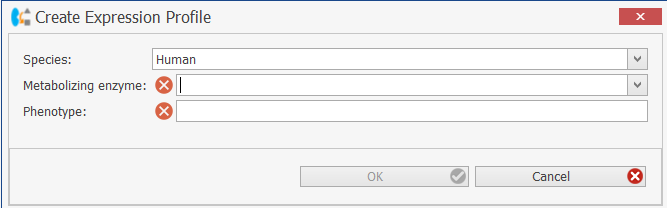
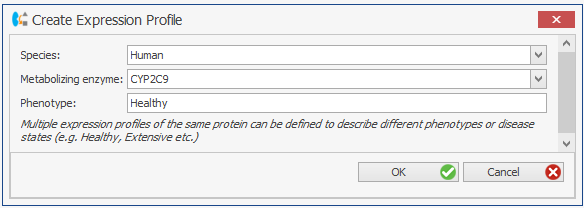
Work on expression profile

Changed region(s): [[0.0, 0.0, 1.0, 1.0], [0.4315, 0.8077, 0.4623, 0.8942]]

diff --git a/part-3/pk-sim-creating-individuals.md b/part-3/pk-sim-creating-individuals.md
@@ -216,7 +216,7 @@ Once the expression profile is selected, it will be linked to the individual and
 This is the only instance in PK-Sim where a a building block is referencing another building block. 
 
 {% hint style="warning" %}
-Please note that when selecting an expression profile with an individual, the expression profile is linked directly to the individual. Any modification performed in the expression profile will be immediately reflected into the individual. This is the reason all parameters are read-only in the individual.
+Please note that when adding an expression profile to an individual, the expression profile is linked directly to the individual. Any modification performed in the expression profile will be immediately reflected into the individual. This is the reason why all parameters are read-only in the individual.
 {% endhint %}
 
 For details on how to create an expression profile, please see [PK-Sim® - Expression Profile](pk-sim-expression-profile.md).

diff --git a/part-3/pk-sim-expression-profile.md b/part-3/pk-sim-expression-profile.md
@@ -378,7 +378,7 @@ The complete data set is stored within the PK-Sim® project. If you re-enter the
 {% endhint %}
 
 {% hint style="tip" %}
-You can rename a defined protein within your PK-Sim® project by selecting the **Rename...** menu item from the context menu of a defined protein. This name has no impact on the query and is only used to identify the protein within the PK-Sim® project.
+You can rename a defined expression profile within your PK-Sim® project by selecting the **Rename...** menu item from the context menu of a defined expression profile. This name has no impact on the query and is only used to identify the protein within the PK-Sim® project.
 {% endhint %}
 
 ## Settings in the protein expression tab
